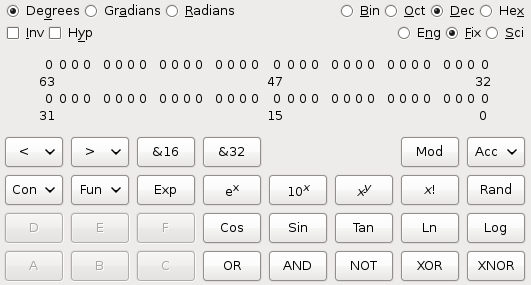
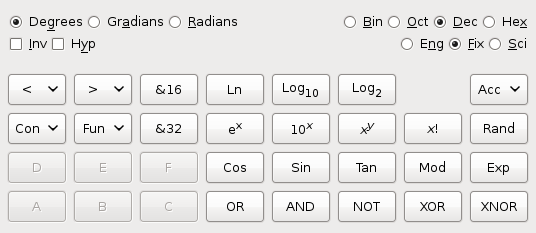
help/C/gcalctool.xml: gcalctool/functions.c: gcalctool/lr_tokeniser.l:
* help/C/figures/gcalctool_scientific_window.png:
      help/C/gcalctool.xml:
      gcalctool/functions.c:
      gcalctool/lr_tokeniser.l:
      gcalctool/lr_parser.y:
      gcalctool/ce_tokeniser.l:
      gcalctool/gtk.c:
      gcalctool/mpmath.c:
      gcalctool/ce_parser.y:
      gcalctool/mpmath.h:
      gcalctool/calctool.c:
      gcalctool/calctool.h:
      gcalctool/gcalctool.1:
      glade/gcalctool.glade:
      From Robert Millan <rmh@aybabtu.com>
      From Robert Ancell <robert.ancell@gmail.com>
      Fixed bug #505892 - Added a base 2 logarithm button. Note that for
      a future release of gcaltool, that this might be changed to a log<n>
      button (see bug #336609 for more details).

svn path=/trunk/; revision=1882

diff --git a/gcalctool/mpmath.h b/gcalctool/mpmath.h
@@ -37,7 +37,7 @@ enum trigfunc_type { sin_t, cos_t, tan_t, sinh_t, cosh_t, tanh_t,
 
 int calc_trigfunc(enum trigfunc_type type, int s1[MP_SIZE], int t1[MP_SIZE]);
 
-void mplog10(int *MPx, int *MPretval);
+void mplogn(int n, int *MPx, int *MPretval);
 void calc_and(int t[MP_SIZE], int s1[MP_SIZE], int s2[MP_SIZE]);
 void calc_or(int t[MP_SIZE], int s1[MP_SIZE], int s2[MP_SIZE]);
 void calc_xor(int t[MP_SIZE], int s1[MP_SIZE], int s2[MP_SIZE]);

diff --git a/gcalctool/gtk.c b/gcalctool/gtk.c
@@ -302,6 +302,10 @@ static struct button_widget button_widgets[] = {
     { GDK_SHIFT_MASK, 0 },
     { GDK_G, 0 }},
 
+    {KEY_LOGARITHM2,         "logarithm2",
+    { GDK_SHIFT_MASK, 0 },
+    { GDK_H, 0 }},
+
     {KEY_FACTORIAL,          "factorial",
     { GDK_SHIFT_MASK, 0 },
     { GDK_exclam, 0 }},

diff --git a/gcalctool/functions.c b/gcalctool/functions.c
@@ -1145,7 +1145,11 @@ do_immedfunc(int s[MP_SIZE], int t[MP_SIZE])
             break;
 
         case KEY_LOGARITHM:
-            mplog10(s, t);
+            mplogn(10, s, t);
+            break;
+
+        case KEY_LOGARITHM2:
+            mplogn(2, s, t);
             break;
 
         case KEY_RANDOM:

diff --git a/gcalctool/mpmath.c b/gcalctool/mpmath.c
@@ -475,11 +475,10 @@ mpatanh(int *MPx, int *MPretval)
  */
 
 void
-mplog10(int *MPx, int *MPretval)
+mplogn(int n, int *MPx, int *MPretval)
 {
-    int MP1[MP_SIZE], MP2[MP_SIZE], n;
+    int MP1[MP_SIZE], MP2[MP_SIZE];
 
-    n = 10;
     mpcim(&n, MP1);
     mpln(MP1, MP1);
     mpln(MPx, MP2);

diff --git a/gcalctool/calctool.h b/gcalctool/calctool.h
@@ -101,6 +101,7 @@ enum
     KEY_TAN, KEY_TANH, KEY_ATAN, KEY_ATANH,
     KEY_NATURAL_LOGARITHM,
     KEY_LOGARITHM,
+    KEY_LOGARITHM2,
     KEY_ABSOLUTE_VALUE,
     KEY_MASK_16,
     KEY_MASK_32,

diff --git a/gcalctool/calctool.c b/gcalctool/calctool.c
@@ -373,6 +373,12 @@ struct button buttons[NKEYS] = {
     FUNC
 },
 {
+    KEY_LOGARITHM2,
+    "Log2",
+    do_immed, 
+    FUNC
+},
+{
     KEY_ABSOLUTE_VALUE,
     "Abs",
     do_portion,
